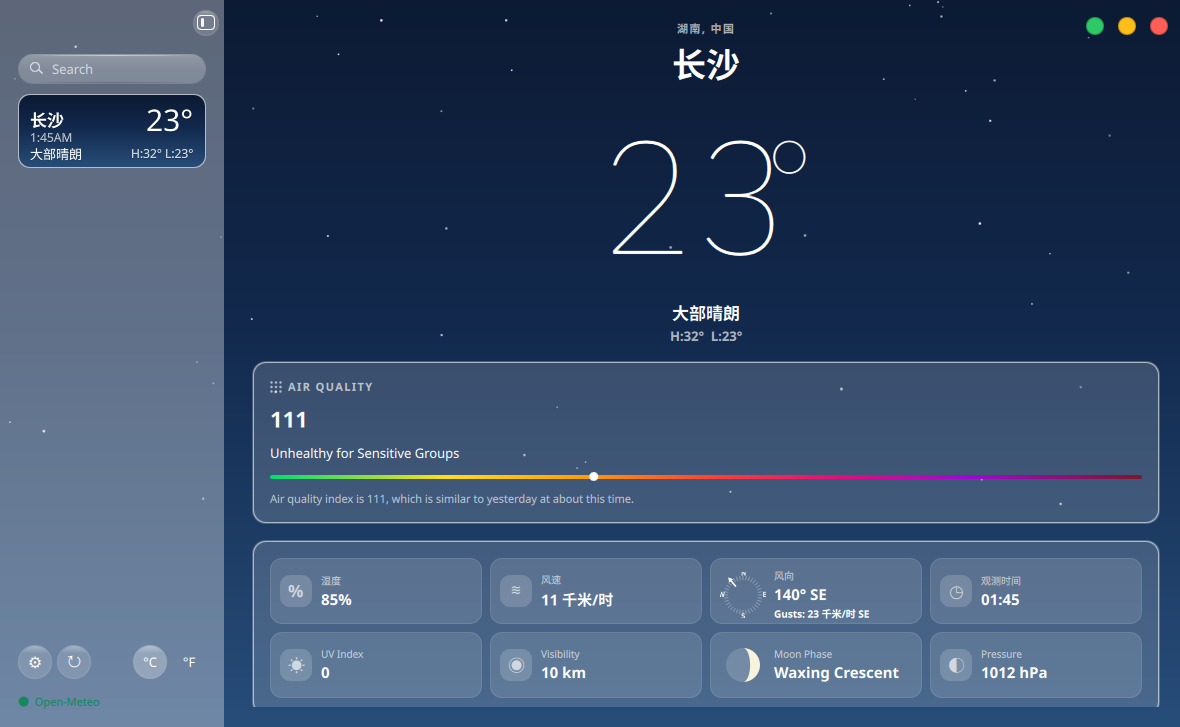
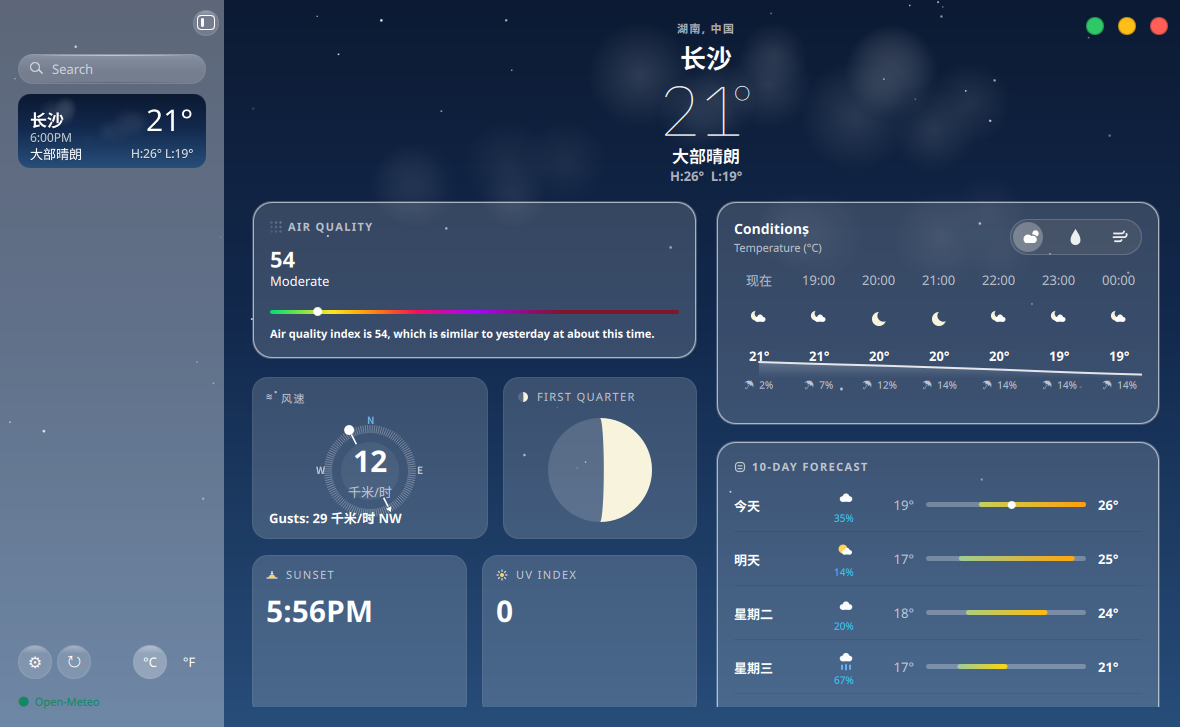
docs: round 45 进度与截图

diff --git a/docs/ui-weather/LEDGER.md b/docs/ui-weather/LEDGER.md
@@ -335,7 +335,7 @@
 7. ~~滚动边缘效果目前只做了列表**顶边**；列表底边（卡片滚出底缘）未做渐隐~~（**已做**，见已改——`scrollEdgeBottom` 与顶边镜像对称，TEMP 下推卡片取证渲染、终态验证门控；滚动态实拍仍未见，见外推待确认）。
 8. ~~指标瓦片（白@0.12）与同级全宽卡（AQ/10 天，白@0.16）填充 alpha 不一致~~（**已做**，见已改——瓦片统一到 0.16/0.22、符号盒 0.20 保 +0.04 关系；日景材质方向差异另见外推待确认首条（**已执行**，见已改"昼夜分材质"））。
 9. ~~B.4 卡片 hover 只剩 10 天卡一处（指标容器实例随本轮容器移除删去）；瓦片级 hover（玻璃高光+抬升移到每块瓦片）为候选补法~~（**已做**，见已改——hover 同参数族已加到 WeatherMetric 组件 6 瓦 + directionTile/moonPhaseTile/sunsetTile，带帧差 MAE 证据；真实鼠标悬停未在真机点过，见外推待确认）。
-10. AQ 卡 rating 邻域残差（视觉冲击低，见已改“数字→rating 间距”条注）：rating cap 高 9px vs ref 折算 10.2（1px AA 内）；~~rating→渐变条 ink gap 残差~~（**已做**，见已改“+7px”——cap 顶口径 25→32px，目标 32.1；旧“~3px 残差”记载系 line-box 混算低估，本轮两口径复测推翻）。逐小时区“逐小时”区头+分段控件在卡外（ref 是 Conditions 卡内右上），系结构性版式适配，是否贴回卡内待用户裁定。
+10. AQ 卡 rating 邻域残差（视觉冲击低，见已改“数字→rating 间距”条注）：rating cap 高 9px vs ref 折算 10.2（1px AA 内）；~~rating→渐变条 ink gap 残差~~（**已做**，见已改“+7px”——cap 顶口径 25→32px，目标 32.1；旧“~3px 残差”记载系 line-box 混算低估，本轮两口径复测推翻）。~~逐小时区“逐小时”区头+分段控件在卡外（ref 是 Conditions 卡内右上），系结构性版式适配，是否贴回卡内待用户裁定~~（**已收口（本轮=纯验证轮，净零代码改动）——条目过时**：逐小时区合并为单张 Conditions 卡后分段控件早已在卡内。本轮巡检截图 tmp/shots/patrol-1792320015.png（过体检闸 ✅ 1180×727，dev env + KOS_SCREENSHOT_DELAY_MS=2500，本轮二进制）Pillow 描边实测：Conditions 卡 x717-1158 / y202-423，分段胶囊 x1015-1147 / y219-254 **完全落在卡内右上**（右边距 11px、顶边距 17px，与 ref 胶囊在卡内右上同位）；卡上方 y150-201 区间零“逐小时”区头墨迹（旧独立区头已随合并删除）。同轮顺带复核 10 天卡行分隔线在场（与 tile-10day 参考的行间细线同构）、hero 温度下“横线”系数字 2/1 底部笔画非伪影。测试 Qt 6/6 绿、go test ok；无动效改动，无帧差义务。
 11. ~~"7 天"区头仍是裸标签~~（**已做**，见已改"10 天卡头部移入卡内"——旧条目"ref-main (515,325) 起"依据被本轮复测推翻，实以 ref-ipad-small 为准；残差：~~头部→Today +4px~~（**已做**，见已改"10 天卡头部→首行间距 −4px"——ink gap 33→30px vs 参考 29）+ 头部 inset（勘误见该条残差 a：记载符号存疑，单改破对齐不立轮）+ 字距总宽 +28px（字体族差异，不动），视觉冲击低）。
 12. 瓦片 glyph 与头部文字的排布残差（视觉冲击低，见已改“glyph 去白方块底”条注）：ref 卡 glyph 与头部行内联（同基线、小尺寸），我方 glyph 垂直居中于左侧 32×32 区、头部/值在右列——瓦片化适配布局，去盒后已进一步贴近 ref，但排布形态仍未对齐；是否把 glyph 改为头部行内联待裁定（会动 6 瓦布局，非原子）。
 13. ~~**瓦片圆角偏小**~~（**已做**，见已改首条——weather 内 `tileRadius: 16` 显式覆盖 4 瓦站点，shared 未动；实测校准半径 ≈15±1 vs ref 15.3）。
